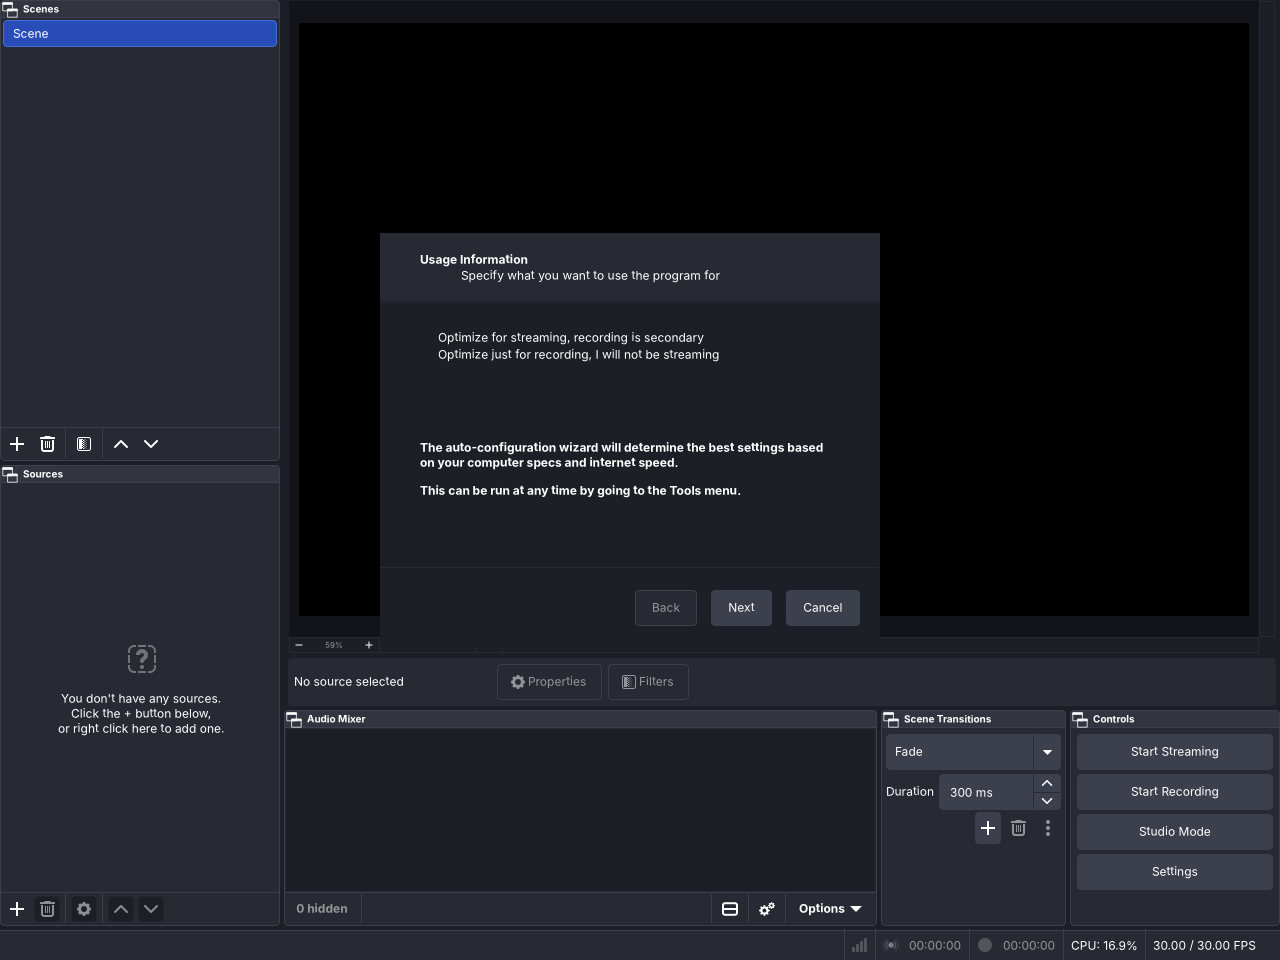
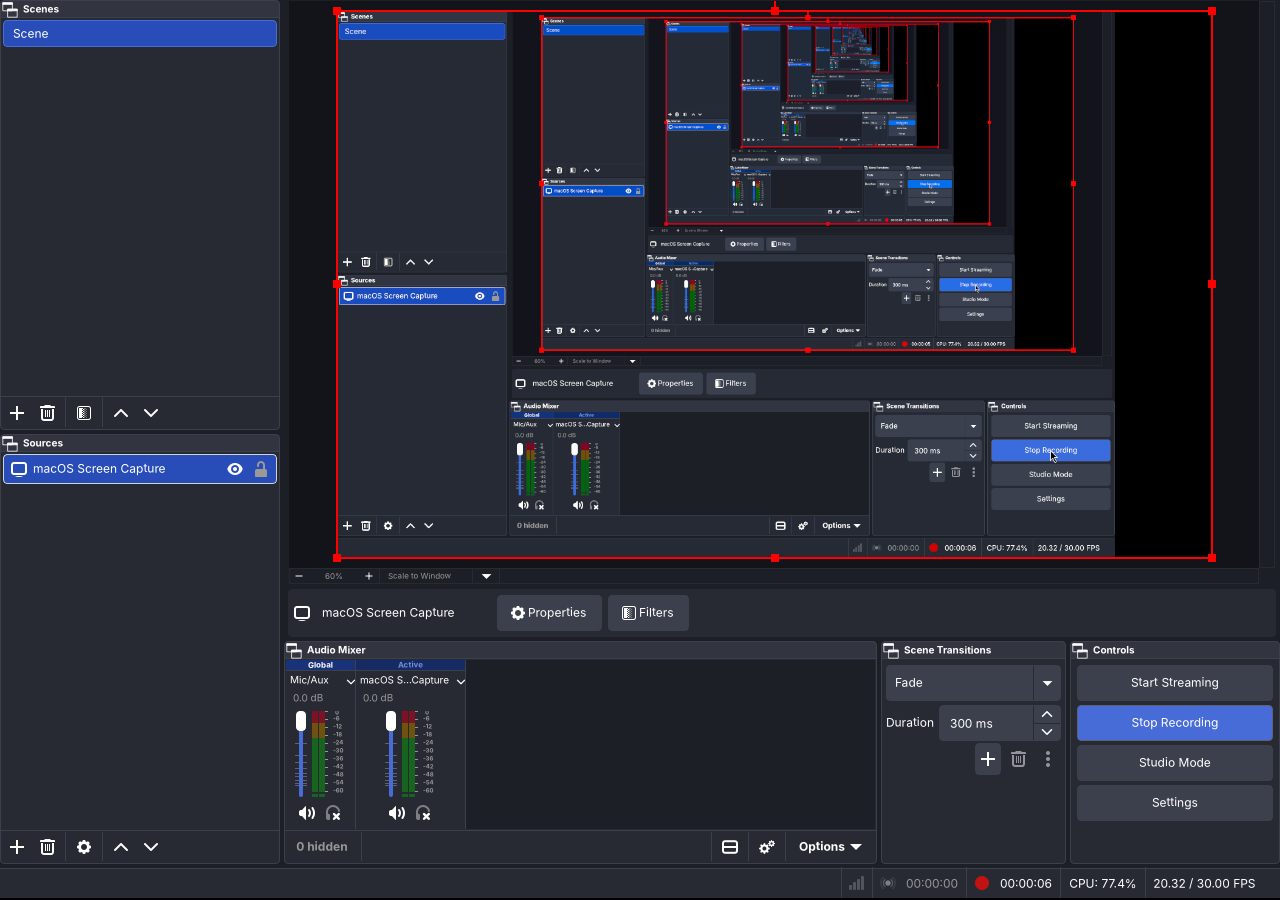
OBS records the screen from its download (freemac 1.246, Ferry 0.69.0)
OBS Studio opened from its own download in a fresh account now gets to a
recording: Qt's drop-down lists open (NSPopUpButtonCell's
performClickWithFrame:inView: tracks the menu until it closes, as on a
Mac), its pop-up menus stay open (keyless windows take no focus and the
key window resigns only when focus really left the app), and a number's
pointerValue gives its value. Adds tests/appkit/qt_popups.m and a new
README screenshot of OBS capturing and recording.

diff --git a/ferry/tests/appkit/qt_popups.m b/ferry/tests/appkit/qt_popups.m
@@ -1,0 +1,88 @@
+/* SPDX-License-Identifier: GPL-3.0-or-later
+ * What OBS's Qt asks of a Mac for its lists and pop-up menus (freemac
+ * 1.246, Ferry 0.69.0), with no display: a pop-up button cell's
+ * performClickWithFrame:inView: tracks its menu until it closes before
+ * it returns, the choice made or not, as on a Mac; a window that can't
+ * become key (a pop-up menu) is never made key; and a number read as a
+ * pointer gives its value, as OBS reads a screen's number. */
+#import <Cocoa/Cocoa.h>
+
+@interface NSWindow (FerryPeek)
+- (NSView *)_overlayView;
+@end
+@interface NSView (FerryMenuView)   /* Ferry's in-window menu */
+- (void)highlightItemAtIndex:(NSInteger)index;
+- (void)chooseHighlightedItem;
+- (void)dismiss;
+@end
+
+@interface Keyless : NSPanel
+@end
+@implementation Keyless
+- (BOOL)canBecomeKeyWindow { return NO; }
+@end
+
+@interface Picker : NSObject
+@property (strong) NSWindow *window;
+@property NSInteger pick;   /* the item to choose, or -1 to close the menu */
+@property BOOL sawOpen;
+@property int fired;
+@end
+@implementation Picker
+- (void)act:(NSTimer *)t
+{
+    self.fired++;
+    NSView *open = [self.window _overlayView];
+    self.sawOpen = [open isKindOfClass:NSClassFromString(@"AMenuView")];
+    if (self.pick >= 0) {
+        [open highlightItemAtIndex:self.pick];
+        [open chooseHighlightedItem];
+    } else
+        [open dismiss];
+}
+@end
+
+int main(void)
+{
+    setvbuf(stdout, NULL, _IONBF, 0);
+    @autoreleasepool {
+        [NSApplication sharedApplication];
+        NSWindow *w = [[NSWindow alloc] initWithContentRect:NSMakeRect(0, 0, 300, 200)
+                                                  styleMask:NSWindowStyleMaskTitled backing:NSBackingStoreBuffered
+                                                      defer:NO];
+        [w makeKeyAndOrderFront:nil];
+        NSView *content = w.contentView;
+
+        Picker *picker = [Picker new];
+        picker.window = w;
+        for (NSInteger pick = 1; pick >= -1; pick -= 2) {
+            NSPopUpButtonCell *cell = [[NSPopUpButtonCell alloc] initTextCell:@"" pullsDown:NO];
+            [cell addItemsWithTitles:@[ @"Display 1", @"Display 2", @"Display 3" ]];
+            cell.menu.autoenablesItems = NO;   /* as Qt's menus */
+            [cell selectItemAtIndex:0];
+            picker.pick = pick;
+            picker.fired = 0;
+            NSTimer *t = [NSTimer timerWithTimeInterval:0.05 target:picker selector:@selector(act:) userInfo:nil
+                                                repeats:NO];
+            [[NSRunLoop currentRunLoop] addTimer:t forMode:NSEventTrackingRunLoopMode];
+            [cell performClickWithFrame:NSMakeRect(20, 20, 160, 24) inView:content];
+            printf("cell click (%s): returned after the menu %s, open meanwhile %d, closed now %d, selected %s\n",
+                   pick >= 0 ? "choose" : "close", picker.fired == 1 ? "closed" : "was still open", picker.sawOpen,
+                   [w _overlayView] == nil, cell.titleOfSelectedItem.UTF8String);
+        }
+
+        Keyless *menu = [[Keyless alloc] initWithContentRect:NSMakeRect(20, 20, 120, 80)
+                                                   styleMask:NSWindowStyleMaskBorderless
+                                                     backing:NSBackingStoreBuffered defer:NO];
+        menu.level = NSPopUpMenuWindowLevel;
+        [menu orderFront:nil];
+        [menu makeKeyWindow];
+        printf("keyless window: shown %d, key %d, the window still key %d\n", menu.isVisible, menu.isKeyWindow,
+               w.isKeyWindow);
+
+        NSNumber *screenNumber = @(1);
+        printf("number as pointer: %lu, zero %p\n", (unsigned long)(uintptr_t)screenNumber.pointerValue,
+               @(0).pointerValue);
+    }
+    return 0;
+}

diff --git a/ferry/appkit/NSWindow.m b/ferry/appkit/NSWindow.m
@@ -1026,9 +1026,23 @@ static void on_realize(GtkWidget *w, void *data) { AMainMenuBarAttach(gtk_widget
     }
     if (_level > NSNormalWindowLevel)
         gtk_window_set_keep_above(_gtk, 1);
+    if (![self canBecomeKeyWindow]) {
+        /* A pop-up menu, a tooltip, a floating badge: on a Mac it shows
+         * without taking the keys from the window that has them, and the
+         * app's menus stay open over it. Qt's pop-up menus close as soon as
+         * their window loses key, so one that took the focus would close
+         * the moment it opened. */
+        gtk_window_set_accept_focus(_gtk, 0);
+        gtk_window_set_focus_on_map(_gtk, 0);
+        gtk_window_set_skip_taskbar_hint(_gtk, 1);
+        gtk_window_set_skip_pager_hint(_gtk, 1);
+        if (_level >= NSPopUpMenuWindowLevel)
+            gtk_window_set_type_hint(_gtk, GDK_WINDOW_TYPE_HINT_POPUP_MENU);
+    }
     gtk_window_set_default_size(_gtk, (int)_frame.size.width, (int)_frame.size.height);
     gtk_window_set_resizable(_gtk, (_style & NSWindowStyleMaskResizable) != 0);
-    gtk_window_set_decorated(_gtk, _style != NSWindowStyleMaskBorderless);
+    /* no title bar unless the window asks for one, as on a Mac */
+    gtk_window_set_decorated(_gtk, (_style & NSWindowStyleMaskTitled) != 0);
     gtk_window_set_deletable(_gtk, (_style & NSWindowStyleMaskClosable) != 0);
     _area = gtk_drawing_area_new();
     if (_style & NSWindowStyleMaskResizable)
@@ -2000,13 +2014,37 @@ static int on_focus_in(GtkWidget *w, GdkEvent *e, void *data)
     return 0;
 }
 
-static int on_focus_out(GtkWidget *w, GdkEvent *e, void *data)
+/* Whether the keyboard focus is now in one of the app's own windows that
+ * can't become key: a pop-up menu or tooltip that a window manager focused
+ * anyway. The key window keeps its keys then, as on a Mac. */
+static BOOL focus_in_keyless_window(void)
+{
+    for (NSWindow *w in all_windows)
+        if (w->_gtk && w->_visible && ![w canBecomeKeyWindow] && gtk_window_has_toplevel_focus(w->_gtk))
+            return YES;
+    return NO;
+}
+
+/* The focus moves out first and into its new window after, so whether the
+ * key window really lost its keys is asked once both have happened. */
+static int resign_if_focus_left(void *data)
 {
     @autoreleasepool {
         NSWindow *win = data;
-        if (key_window == win || (key_window && key_window == win->_sheet && win->_sheet->_hostedSheet))
+        BOOL still = win->_gtk && gtk_window_has_toplevel_focus(win->_gtk);
+        if (!still && !focus_in_keyless_window() &&
+            (key_window == win || (key_window && key_window == win->_sheet && win->_sheet->_hostedSheet)))
             A_REPORTING([key_window resignKeyWindow];)
+        [win release];
     }
+    return 0;
+}
+
+static int on_focus_out(GtkWidget *w, GdkEvent *e, void *data)
+{
+    NSWindow *win = data;
+    if (key_window == win || (key_window && key_window == win->_sheet && win->_sheet->_hostedSheet))
+        g_timeout_add(0, (GSourceFunc)resign_if_focus_left, [win retain]);
     return 0;
 }
 @end

diff --git a/ferry/appkit/NSPopUpButton.m b/ferry/appkit/NSPopUpButton.m
@@ -812,7 +812,27 @@ static BOOL choosable(NSMenuItem *item)
         [(NSControl *)view setHighlighted:YES];
 }
 - (void)attachPopUpWithFrame:(NSRect)frame inView:(NSView *)view { [self _openForView:view frame:frame]; }
-- (void)performClickWithFrame:(NSRect)frame inView:(NSView *)view { [self _openForView:view frame:frame]; }
+/* As on a Mac, a click made this way tracks the menu until it closes,
+ * the choice made, before it returns: Qt's lists (OBS's) open their menu
+ * with a cell of their own and read the choice back straight after
+ * (freemac 1.246). A pop-up button's own click opens it without waiting. */
+- (void)performClickWithFrame:(NSRect)frame inView:(NSView *)view
+{
+    [self _openForView:view frame:frame];
+    AMenuView *open = [_open retain];
+    [self retain];
+    while (open && _open == open && [open window]) {
+        @autoreleasepool {
+            /* waking now and then, so a menu closed by a timer ends the wait */
+            NSEvent *e = [NSApp nextEventMatchingMask:NSEventMaskAny untilDate:[NSDate dateWithTimeIntervalSinceNow:0.1]
+                                               inMode:NSEventTrackingRunLoopMode dequeue:YES];
+            if (e)
+                [NSApp sendEvent:e];
+        }
+    }
+    [open release];
+    [self release];
+}
 - (void)dismissPopUp { [_open dismiss]; }
 
 /* The menu closed: a chosen item becomes the selection (a pull-down list

diff --git a/ferry/appkit/gtk.h b/ferry/appkit/gtk.h
@@ -246,6 +246,15 @@ enum { GTK_ICON_LOOKUP_FORCE_SIZE = 1 << 4 };
 enum { G_SPAWN_SEARCH_PATH = 1 << 2, G_SPAWN_STDOUT_TO_DEV_NULL = 1 << 3, G_SPAWN_STDERR_TO_DEV_NULL = 1 << 4 };
 void gtk_window_set_transient_for(GtkWidget *window, GtkWidget *parent);
 void gtk_window_set_keep_above(GtkWidget *window, gboolean setting);
+/* a window that can't become key (a pop-up menu, a tooltip) takes no
+ * keyboard focus and stays off the Dock's list, as on a Mac (freemac 1.246) */
+void gtk_window_set_accept_focus(GtkWidget *window, gboolean setting);
+void gtk_window_set_focus_on_map(GtkWidget *window, gboolean setting);
+void gtk_window_set_skip_taskbar_hint(GtkWidget *window, gboolean setting);
+void gtk_window_set_skip_pager_hint(GtkWidget *window, gboolean setting);
+void gtk_window_set_type_hint(GtkWidget *window, int hint);
+gboolean gtk_window_has_toplevel_focus(GtkWidget *window);
+enum { GDK_WINDOW_TYPE_HINT_POPUP_MENU = 3, GDK_WINDOW_TYPE_HINT_TOOLTIP = 10 };
 void gtk_window_set_modal(GtkWidget *window, gboolean modal);
 GtkIconTheme *gtk_icon_theme_get_default(void);
 GtkIconTheme *gtk_icon_theme_new(void);

diff --git a/ferry/appkit/AppKitDocumentApps.m b/ferry/appkit/AppKitDocumentApps.m
@@ -70,7 +70,8 @@ static BOOL run_menu(NSMenu *menu, NSView *view, NSRect rect, NSInteger aligned,
     [open retain];
     while (!owner->done && [open window]) {
         @autoreleasepool {
-            NSEvent *e = [NSApp nextEventMatchingMask:NSEventMaskAny untilDate:[NSDate distantFuture]
+            /* waking now and then, so a menu closed by a timer ends the wait */
+            NSEvent *e = [NSApp nextEventMatchingMask:NSEventMaskAny untilDate:[NSDate dateWithTimeIntervalSinceNow:0.1]
                                                inMode:NSEventTrackingRunLoopMode dequeue:YES];
             if (e)
                 [NSApp sendEvent:e];

diff --git a/ferry/foundation/NSValue.m b/ferry/foundation/NSValue.m
@@ -405,6 +405,9 @@ static NSString *format_double(double d, BOOL single)
         return "c";
     return types[strchr(letters, _type) - letters];
 }
+/* a number read as a pointer gives its value, as on a Mac: apps read an
+ * NSScreenNumber this way (OBS's screen capture does) (freemac 1.246) */
+- (void *)pointerValue { return (void *)(uintptr_t)[self unsignedLongLongValue]; }
 - (void)getValue:(void *)value
 {
     switch (_type) {

diff --git a/ferry/src/main.c b/ferry/src/main.c
@@ -18,7 +18,7 @@
 
 #include "ferry.h"
 
-#define FERRY_VERSION "0.68.0"
+#define FERRY_VERSION "0.69.0"
 
 static void usage(FILE *out)
 {

diff --git a/README.md b/README.md
@@ -70,7 +70,7 @@ names, contacts and events in them are made-up examples.
 <tr><td width="50%"><img src="docs/screenshots/ferry-documents.png" alt="Drawn by Ferry for a Mac program: a document window called Second.note with a sheet hanging from its title bar asking Do you want to revert to the most recently saved version of the document, with Cancel and Revert"><br><sub>Mac programs' documents and sheets, drawn by Ferry</sub></td><td width="50%"><img src="docs/screenshots/ferry-alert.png" alt="A Ferry alert asking Do you want to save the changes made to the document Report? with Save, Cancel and Don't Save"><br><sub>…and the Save, Cancel or Don't Save alert before closing</sub></td></tr>
 <tr><td width="50%"><img src="docs/screenshots/add-to-dock.png" alt="Web on the Harbour Friends website with the Add to Dock window open: the site's blue icon, the name Harbour, its address, and Cancel and Add"><br><sub>File > Add to Dock… in Web puts a website in the Dock</sub></td><td width="50%"><img src="docs/screenshots/web-app.png" alt="Harbour Chat open in its own window from the Dock, with Harbour Chat in the menu bar, no address bar or tabs, and a red 8 on its Dock icon for 8 new messages"><br><sub>It opens in its own window, with its unread count on its Dock icon</sub></td></tr>
 <tr><td width="50%"><img src="docs/screenshots/lifeboat-menu.png" alt="The Lifeboat menu open from the lifebuoy in the menu bar: Latest backup: Just now, Back Up Now, Browse Lifeboat Backups and Lifeboat Settings"><br><sub>Lifeboat in the menu bar: when you last backed up, and Back Up Now</sub></td><td width="50%"><img src="docs/screenshots/ferry-controls.png" alt="Drawn by Ferry for a Mac program: a toolbar, a pop-up list set to Large, a segmented control with Day, Week and Month, a search field, and a pop-up list open with Blue ticked"><br><sub>Mac programs' pop-up lists, segmented controls, search fields and toolbars, drawn by Ferry</sub></td></tr>
-<tr><td width="50%"><img src="docs/screenshots/ferry-obs.png" alt="OBS Studio 33, a Mac program, running through Ferry: Scenes with one scene, an empty Sources list, the black preview, Audio Mixer, Scene Transitions set to Fade, the Controls with Start Streaming and Start Recording, 30.00 / 30.00 FPS in the status bar, and the auto-configuration wizard on top"><br><sub>OBS Studio, a Mac app, opens its main window through Ferry</sub></td><td width="50%"><img src="docs/screenshots/ferry-tomatobar.png" alt="TomatoBar, a SwiftUI Mac app run through Ferry: its icon and 24:41 countdown in the menu bar, and its panel open on Intervals: work 25 min, short rest 5 min, long rest 15 min, 4 work intervals in a set"><br><sub>TomatoBar, a SwiftUI Mac app, through Ferry</sub></td></tr>
+<tr><td width="50%"><img src="docs/screenshots/ferry-obs.png" alt="OBS Studio 33, a Mac program, running through Ferry and recording: a macOS Screen Capture source shows the freemac screen in the preview, with the OBS window inside it again and again, Stop Recording lit in Controls and 00:00:06 counting in the status bar"><br><sub>OBS Studio, a Mac app, captures and records the screen through Ferry</sub></td><td width="50%"><img src="docs/screenshots/ferry-tomatobar.png" alt="TomatoBar, a SwiftUI Mac app run through Ferry: its icon and 24:41 countdown in the menu bar, and its panel open on Intervals: work 25 min, short rest 5 min, long rest 15 min, 4 work intervals in a set"><br><sub>TomatoBar, a SwiftUI Mac app, through Ferry</sub></td></tr>
 <tr><td width="50%"><img src="docs/screenshots/wifi-menu.png" alt="The Wi-Fi menu open from the menu bar: Wi-Fi switched on, Known Networks Coffee Shop (joined, in blue) and Lakeside Guest, Other Networks Lakeside Home with a padlock, and Wi-Fi Settings"><br><sub>The Wi-Fi menu: click a network to join it</sub></td><td width="50%"><img src="docs/screenshots/wifi-password.png" alt="A window saying The Wi-Fi network Lakeside Home requires a WPA2 password, with a password field, Show password, Cancel and Join"><br><sub>A network with a padlock asks for its password</sub></td></tr>
 <tr><td width="50%"><img src="docs/screenshots/startup-disk.png" alt="Dials > Startup Disk: freemac, Windows, Ubuntu, a SanDisk USB stick and the DVD drive freemac is running from, with freemac chosen, Restart in freemac… and Always Start Up from This"><br><sub>Dials > Startup Disk: choose Windows, freemac or a USB stick</sub></td><td width="50%"><img src="docs/screenshots/startup-disk-restart.png" alt="An alert asking Restart in Windows? The computer restarts in Windows, just this once, with Cancel and Restart"><br><sub>Restart in Windows just once, then back to freemac</sub></td></tr>
 <tr><td width="50%"><img src="docs/screenshots/vpn-settings.png" alt="Dials > Network with a WireGuard VPN called home-vpn, connected, its switch on, Add VPN Configuration and Show VPN status in menu bar"><br><sub>VPN in Dials > Network: add a WireGuard or OpenVPN file</sub></td><td width="50%"><img src="docs/screenshots/vpn-menu.png" alt="The VPN menu open in the menu bar: home-vpn Connected, Disconnect home-vpn and Open VPN Settings"><br><sub>Connect or disconnect from the VPN menu</sub></td></tr>

diff --git a/docs/ferry-gui.md b/docs/ferry-gui.md
@@ -3084,3 +3084,34 @@ bridge in the `ferry` binary.
 - 2026-11-26: Ferry 0.66.0 (freemac 1.242): NSString upper, lower and capitalized case in a given locale, through ICU (OBS Studio 33 asks at startup); OBS finishes its tour and records the microphone in Ferry's test setup.
 - 2026-11-26: Ferry 0.67.0 (freemac 1.244): a Mac app's main menu is in freemac's menu bar, published as GTK menus on the session bus, validated while the app is in front; its Window and Help items join Topline's own.
 - 2026-11-26: Ferry 0.68.0 (freemac 1.245): Mac apps follow freemac's light and dark mode, live; the system colours have dark values and are drawn in the appearance drawing is in; `make check` 340/340.
+
+## Qt's pop-up menus and lists (freemac 1.246, Ferry 0.69.0)
+
+What OBS Studio 33's Qt asks of a Mac for its menus and drop-down lists,
+checked by opening OBS from its download in a fresh account, adding a
+macOS Screen Capture source, picking the display and recording.
+
+- A window whose `canBecomeKeyWindow` is NO (Qt's pop-up menus and
+  tooltips are such panels) is made with GTK's accept-focus and
+  focus-on-map off and skip-taskbar and skip-pager on, and with the
+  pop-up-menu type hint at `NSPopUpMenuWindowLevel` and above. Qt closes
+  every pop-up when its key window resigns, so the key window resigns a
+  turn after GTK's focus-out, and not at all when focus is in one of the
+  app's keyless windows or came back.
+- A window has a title bar only when its style mask has
+  `NSWindowStyleMaskTitled`; a borderless panel or a pop-up has none.
+- `-[NSPopUpButtonCell performClickWithFrame:inView:]` opens the menu and
+  returns only once it has closed, the chosen item selected and its action
+  sent, as on a Mac. Qt's non-editable `QComboBox` opens its native list
+  with a cell of its own this way and reads the choice straight after.
+  `attachPopUpWithFrame:inView:` and a pop-up button's own click still
+  open the menu without waiting.
+- `-[NSNumber pointerValue]` gives the number's value, as a Mac's does;
+  OBS reads `NSScreenNumber` this way.
+- The waits for a pop-up menu wake every tenth of a second, so a menu
+  closed by a timer or a notification ends them without another event.
+
+`tests/appkit/qt_popups.m` checks the cell's wait with a menu chosen from
+and one closed, a keyless window never becoming key, and a number's
+pointer value.
+

diff --git a/docs/ROADMAP.md b/docs/ROADMAP.md
@@ -1183,6 +1183,17 @@ The menu bar's Bluetooth menu, as on a Mac.
 | 4 | Bluetooth Settings… opens Dials > Bluetooth, as a click did before; a computer with no Bluetooth still shows no symbol | bluetooth_menu.py, status.py | done |
 | 5 | Guide topic, README row and screenshots | Guide, Docs | done |
 
+## 1.246 "OBS records the screen from its download" (done)
+
+Ferry 0.69.0: OBS Studio, downloaded from its own site and opened in a fresh account, now gets all the way to a recording. Its drop-down lists open, so you can pick the display in a macOS Screen Capture source's Properties, and the preview shows the screen at once; Start Recording then saves a movie of it with sound. Its right-click and + menus stay open until you choose, instead of closing the moment they appear, and those pop-up menus no longer take the keyboard or show up in the Dock.
+
+| # | Item | Component | Status |
+| --- | --- | --- | --- |
+| 1 | A window that can't become key (a Qt pop-up menu, a tooltip) takes no focus and stays off the Dock's list; the key window waits a turn before resigning, and doesn't when focus went to one of the app's pop-ups, so Qt's menus no longer close as they open | Ferry AppKit (NSWindow.m, gtk.h) | done |
+| 2 | NSPopUpButtonCell's performClickWithFrame:inView: tracks its menu until it closes, the choice made, before it returns, as on a Mac: Qt's lists open their menus this way | Ferry AppKit (NSPopUpButton.m) | done |
+| 3 | A number read as a pointer gives its value, as OBS reads a screen's number; menu waits wake now and then, so a menu closed by a timer ends them | Ferry Foundation (NSValue.m), AppKit | done |
+| 4 | README screenshot of OBS capturing and recording the screen | Docs | done |
+
 ## 1.245 "Mac apps in light and dark" (done)
 
 Ferry 0.68.0: Mac apps follow freemac's appearance, as on a Mac. When Dials > Appearance is Dark, or Auto after sunset, a Mac app that knows dark mode opens dark: its windows, text, lists, sidebars and controls take dark colours, and Qt apps such as OBS and VLC read the same. Switch the appearance while the app is open and it changes with everything else, at once. An app that says it needs the light look, or was built before macOS had dark mode, stays light as it would on a Mac, and one that picks its own appearance keeps it.
